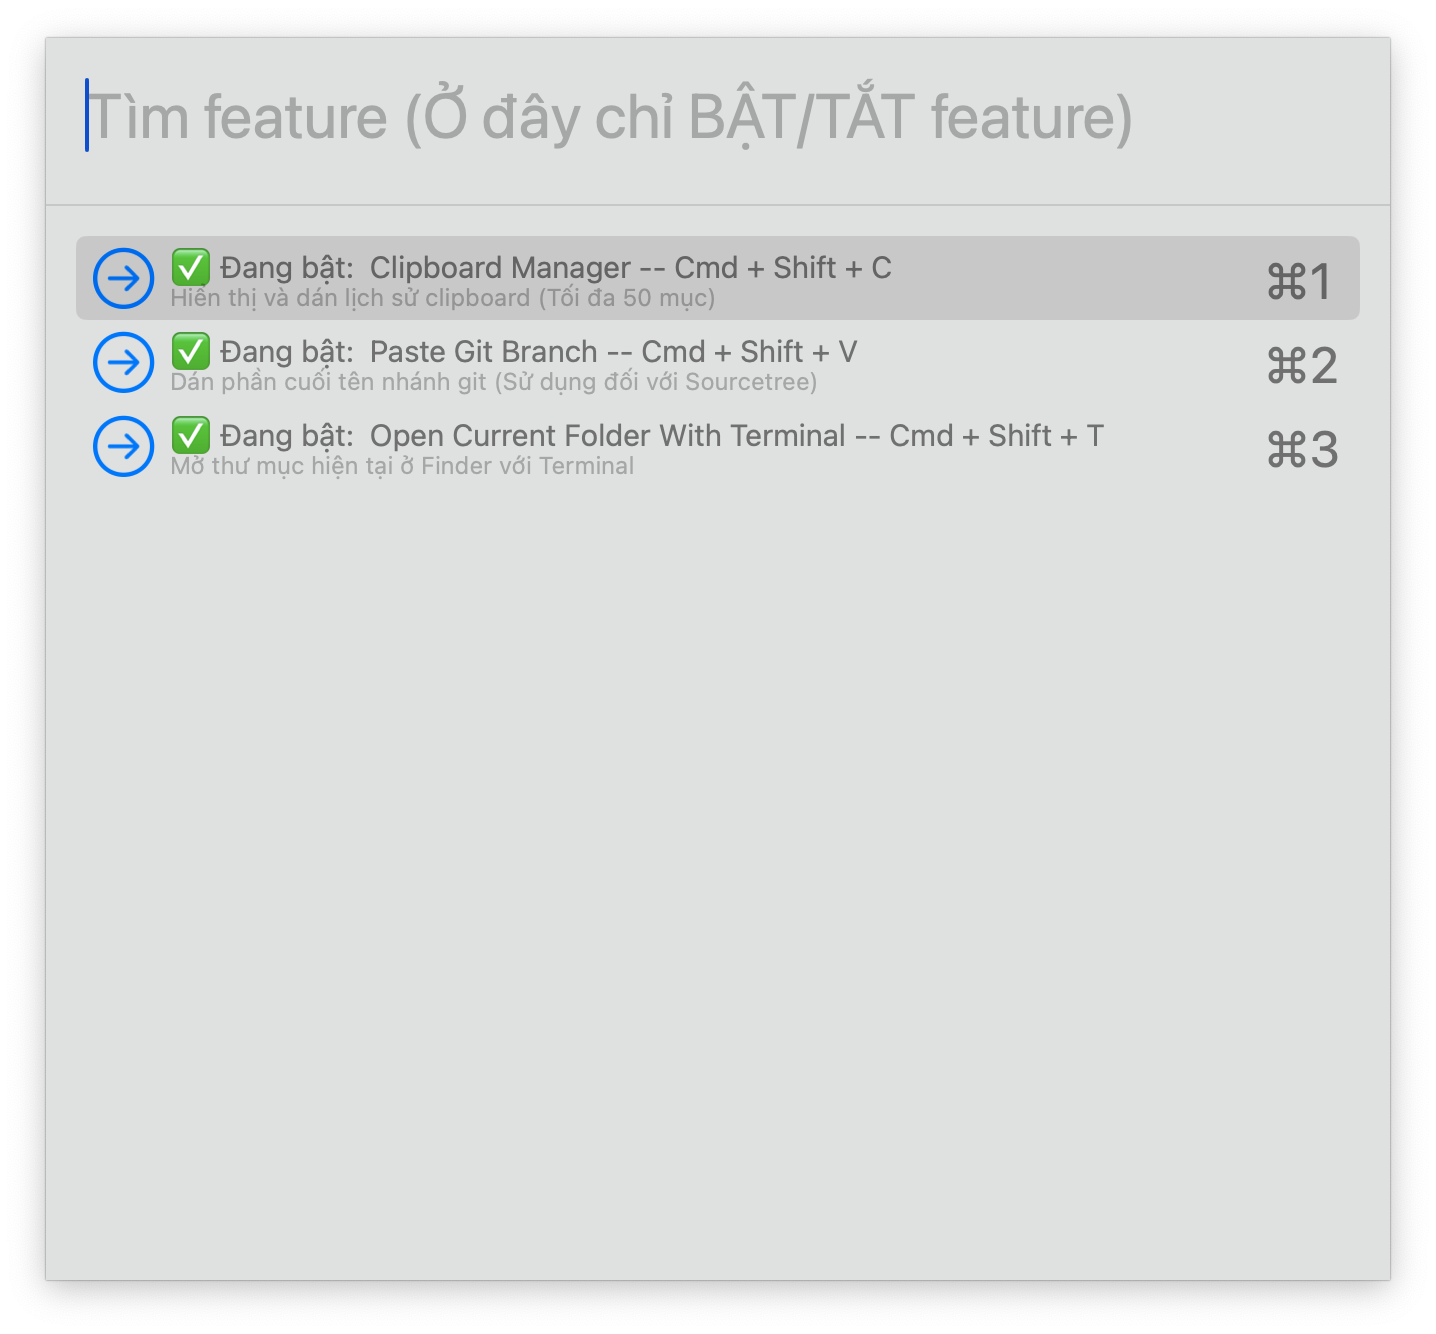
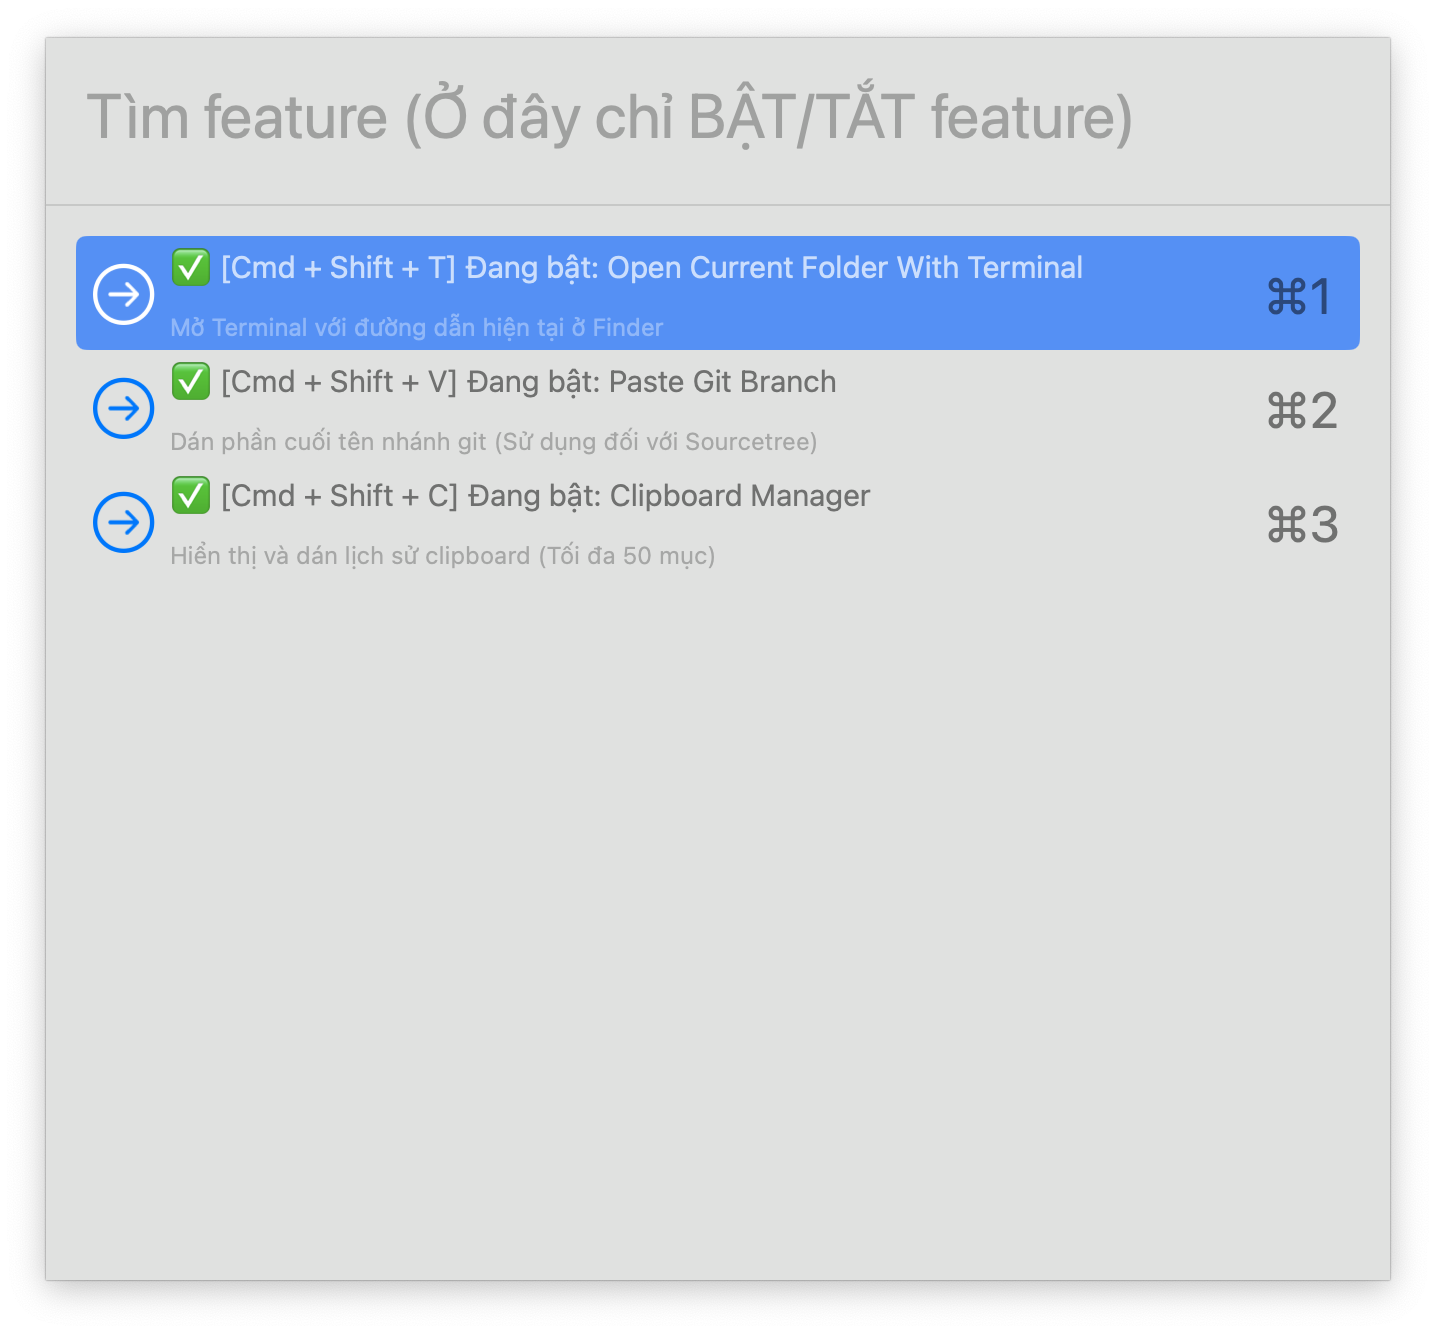
update source

Changed region(s): [[0.0306, 0.1537, 0.9499, 0.4303], [0.6128, 0.3073, 0.766, 0.3381]]

diff --git a/README.md b/README.md
@@ -4,7 +4,7 @@ Script tiện ích cho macOS được xây dựng bằng **Hammerspoon + Lua**. 
 
 - 📋 Clipboard Manager (Hiển thị lịch sử những từ được sao chép)
 - 🪄 Paste name branch in field filter Sourcetree (Dán đuôi của branch - phù hợp với chức năng filter ở Sourcetree)
-- 💻 Open current folder in Terminal (Mở folder đang hiển thị ở Finder với Terminal)
+- 💻 Open current folder in Terminal (Mở Terminal với đường dẫn hiện tại ở Finder)
 
 ---
 
@@ -24,9 +24,9 @@ Script tiện ích cho macOS được xây dựng bằng **Hammerspoon + Lua**. 
 brew install --cask hammerspoon && brew install letienndat/hstools/utilities-macos
 ```
 
-#### Chỉ định version (ví dụ: 1.1.3)
+#### Chỉ định version (ví dụ: 1.1.4)
 ```bash
-brew install --cask hammerspoon && brew install letienndat/hstools/utilities-macos@1.1.3
+brew install --cask hammerspoon && brew install letienndat/hstools/utilities-macos@1.1.4
 ```
 
 Nó cần cài: hammerspoon (bắt buộc, nếu thiết bị của bạn đã cài thì nó tự động bỏ qua không cài nữa, vì chương trình của tôi chạy trên môi trường hammerspoon)
@@ -37,9 +37,9 @@ Nó cần cài: hammerspoon (bắt buộc, nếu thiết bị của bạn đã c
 bash $(brew --cellar utilities-macos)/$(brew list --versions utilities-macos | awk '{print $2}')/install.sh
 ```
 
-#### Chỉ định version (ví dụ: 1.1.3)
+#### Chỉ định version (ví dụ: 1.1.4)
 ```bash
-bash $(brew --cellar utilities-macos@1.1.3)/1.1.3/install.sh
+bash $(brew --cellar utilities-macos@1.1.4)/1.1.4/install.sh
 ```
 
 Chạy script install.sh để copy script `.lua` thù folder mặc định brew pull về sang folder `~/.hammerspoon` của Hammerspoon
@@ -98,7 +98,7 @@ feature = {
 | ----------------- | --------------------------------------------------------------------------------- |
 | `Cmd + Shift + C` | Mở menu clipboard history và dán mục đã chọn                                      |
 | `Cmd + Shift + V` | Dán phần cuối của nhánh Git (phù hợp với filter branch Sourcetree)                |
-| `Cmd + Shift + T` | Mở Terminal với thư mục đang được mở ở Finder                                     |
+| `Cmd + Shift + T` | Mở Terminal với đường dẫn hiện tại ở Finder                                       |
 
 > Có thể xây dựng tính năng mới và gán hotkey tuỳ chỉnh của riêng bạn
 
@@ -113,9 +113,9 @@ brew uninstall --cask hammerspoon && brew uninstall letienndat/hstools/utilities
 brew untap letienndat/hstools
 ```
 
-#### Chỉ định version (ví dụ 1.1.3)
+#### Chỉ định version (ví dụ 1.1.4)
 ```bash
-brew uninstall --cask hammerspoon && brew uninstall letienndat/hstools/utilities-macos@1.1.3
+brew uninstall --cask hammerspoon && brew uninstall letienndat/hstools/utilities-macos@1.1.4
 brew untap letienndat/hstools
 ```
 
@@ -127,14 +127,6 @@ brew untap letienndat/hstools
 
 ---
 
-## 🧑💻 Tác giả
-
-[Le Tien Dat](https://github.com/letienndat)
-
----
-
 ## 📜 License
 
 [MIT License.](https://github.com/letienndat/utilities-macos?tab=MIT-1-ov-file#)
-
-## 🫶 Thanks for reading
